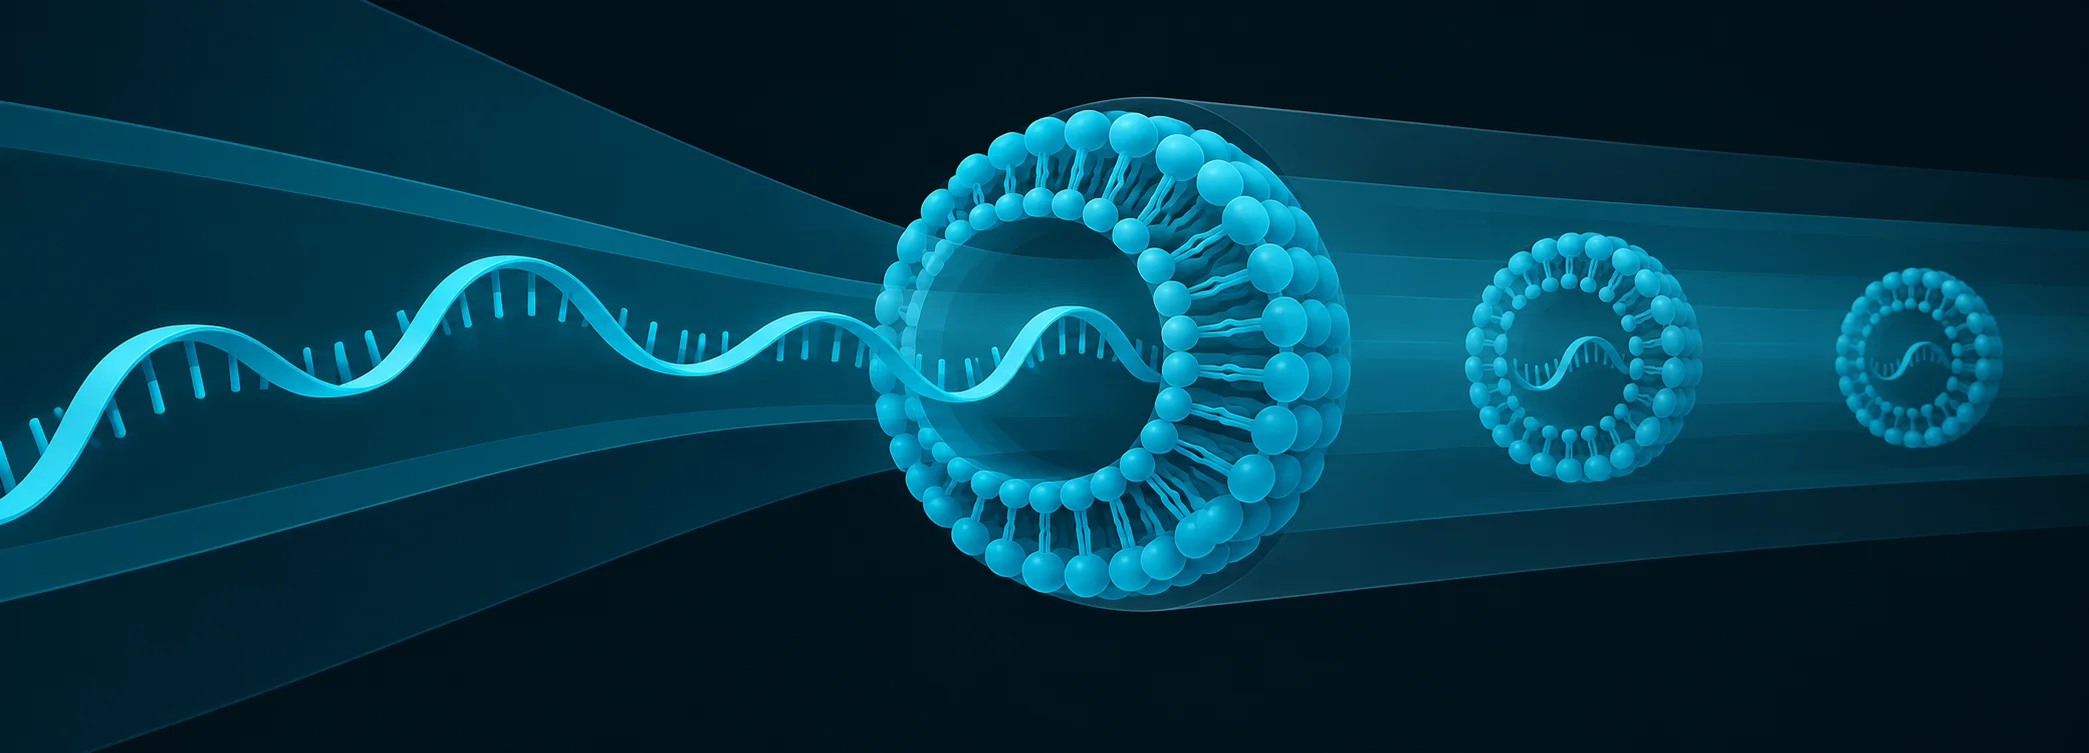
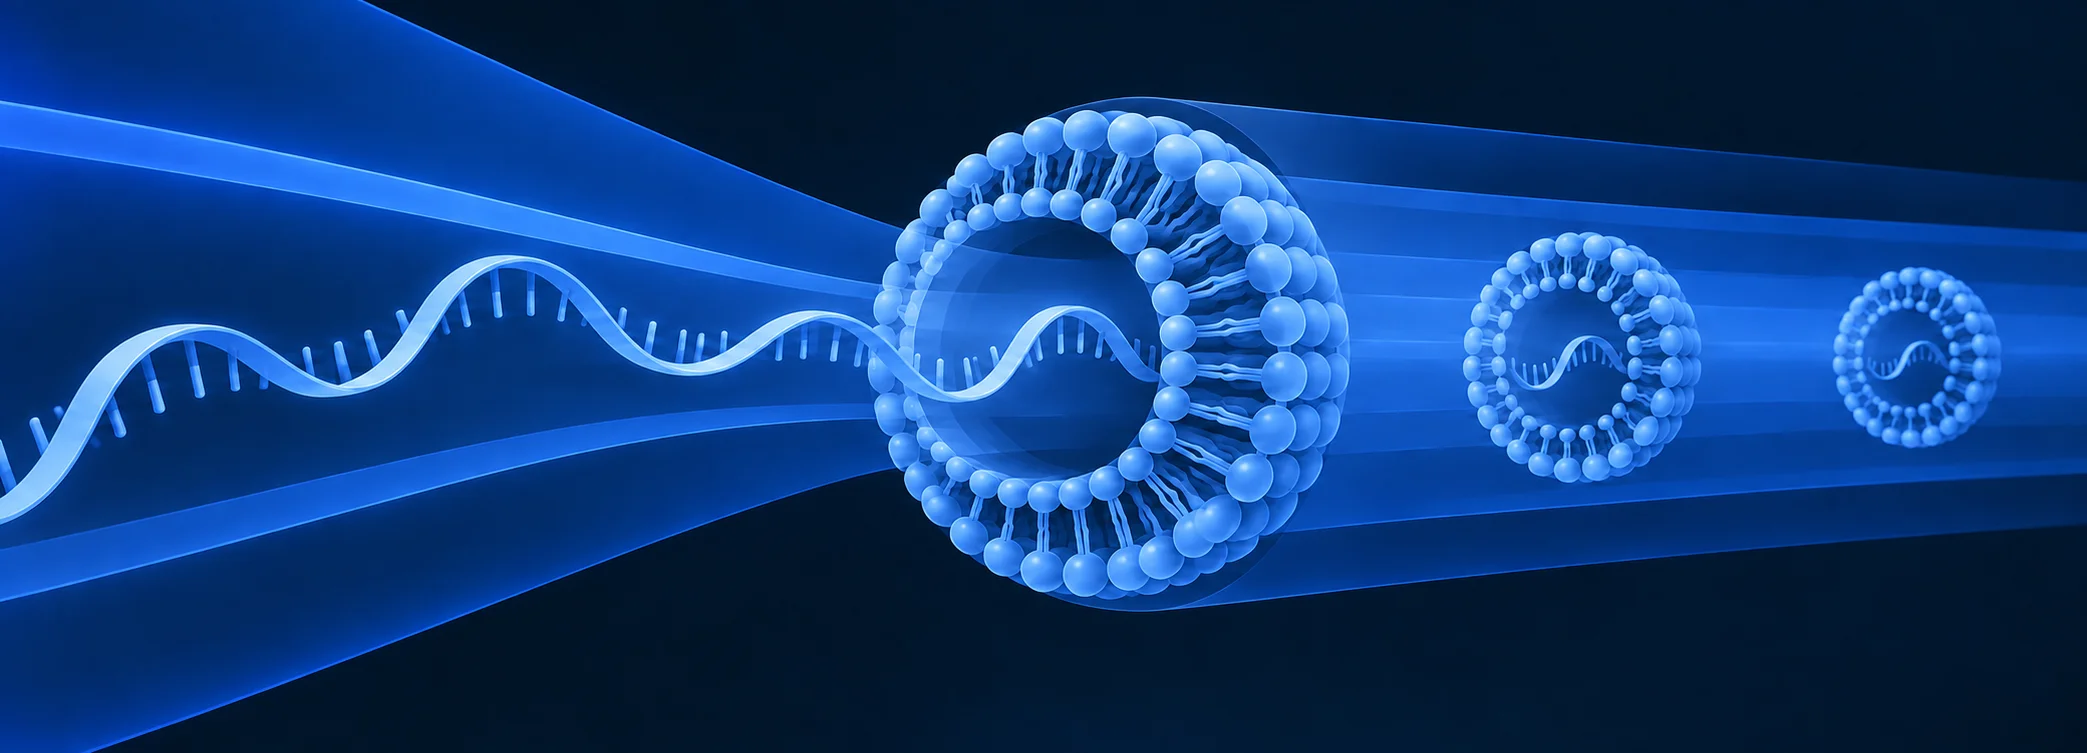
fix(courses): align cover colors within catalogue topics
Replace four approved artwork assets only; preserve all course data and application behavior.

diff --git a/docs/course-cover-release.md b/docs/course-cover-release.md
@@ -30,3 +30,14 @@ boundary. This file is the release note instead.
 
 Source base: `7b658a89abaa62ba783bd6cd1eb81bc89f0bf66e`.
 Previous production deployment: `dpl_A1pB8zFTMf1Jf7PBKoiT81a8HFDB`.
+
+## Topic-color correction — 2026-09-28
+
+Replaces only four WebP assets: PW-BIO-02 and PW-BIO-04 now match the blue
+biomanufacturing group; PW-RD-01 matches the magenta-purple USP/DSP group;
+PW-MA-01 matches the coral Clinical Trials group. Illustrations, course grouping,
+all other artwork and application code remain unchanged. Original masters and
+revised PNGs are retained in the separate course-graphics preview directory.
+
+Use the same migration-free deployment procedure above. Rollback target for
+this correction: `dpl_DRcMCEborZAZoAVxpCTUQBe7SNuj`.
